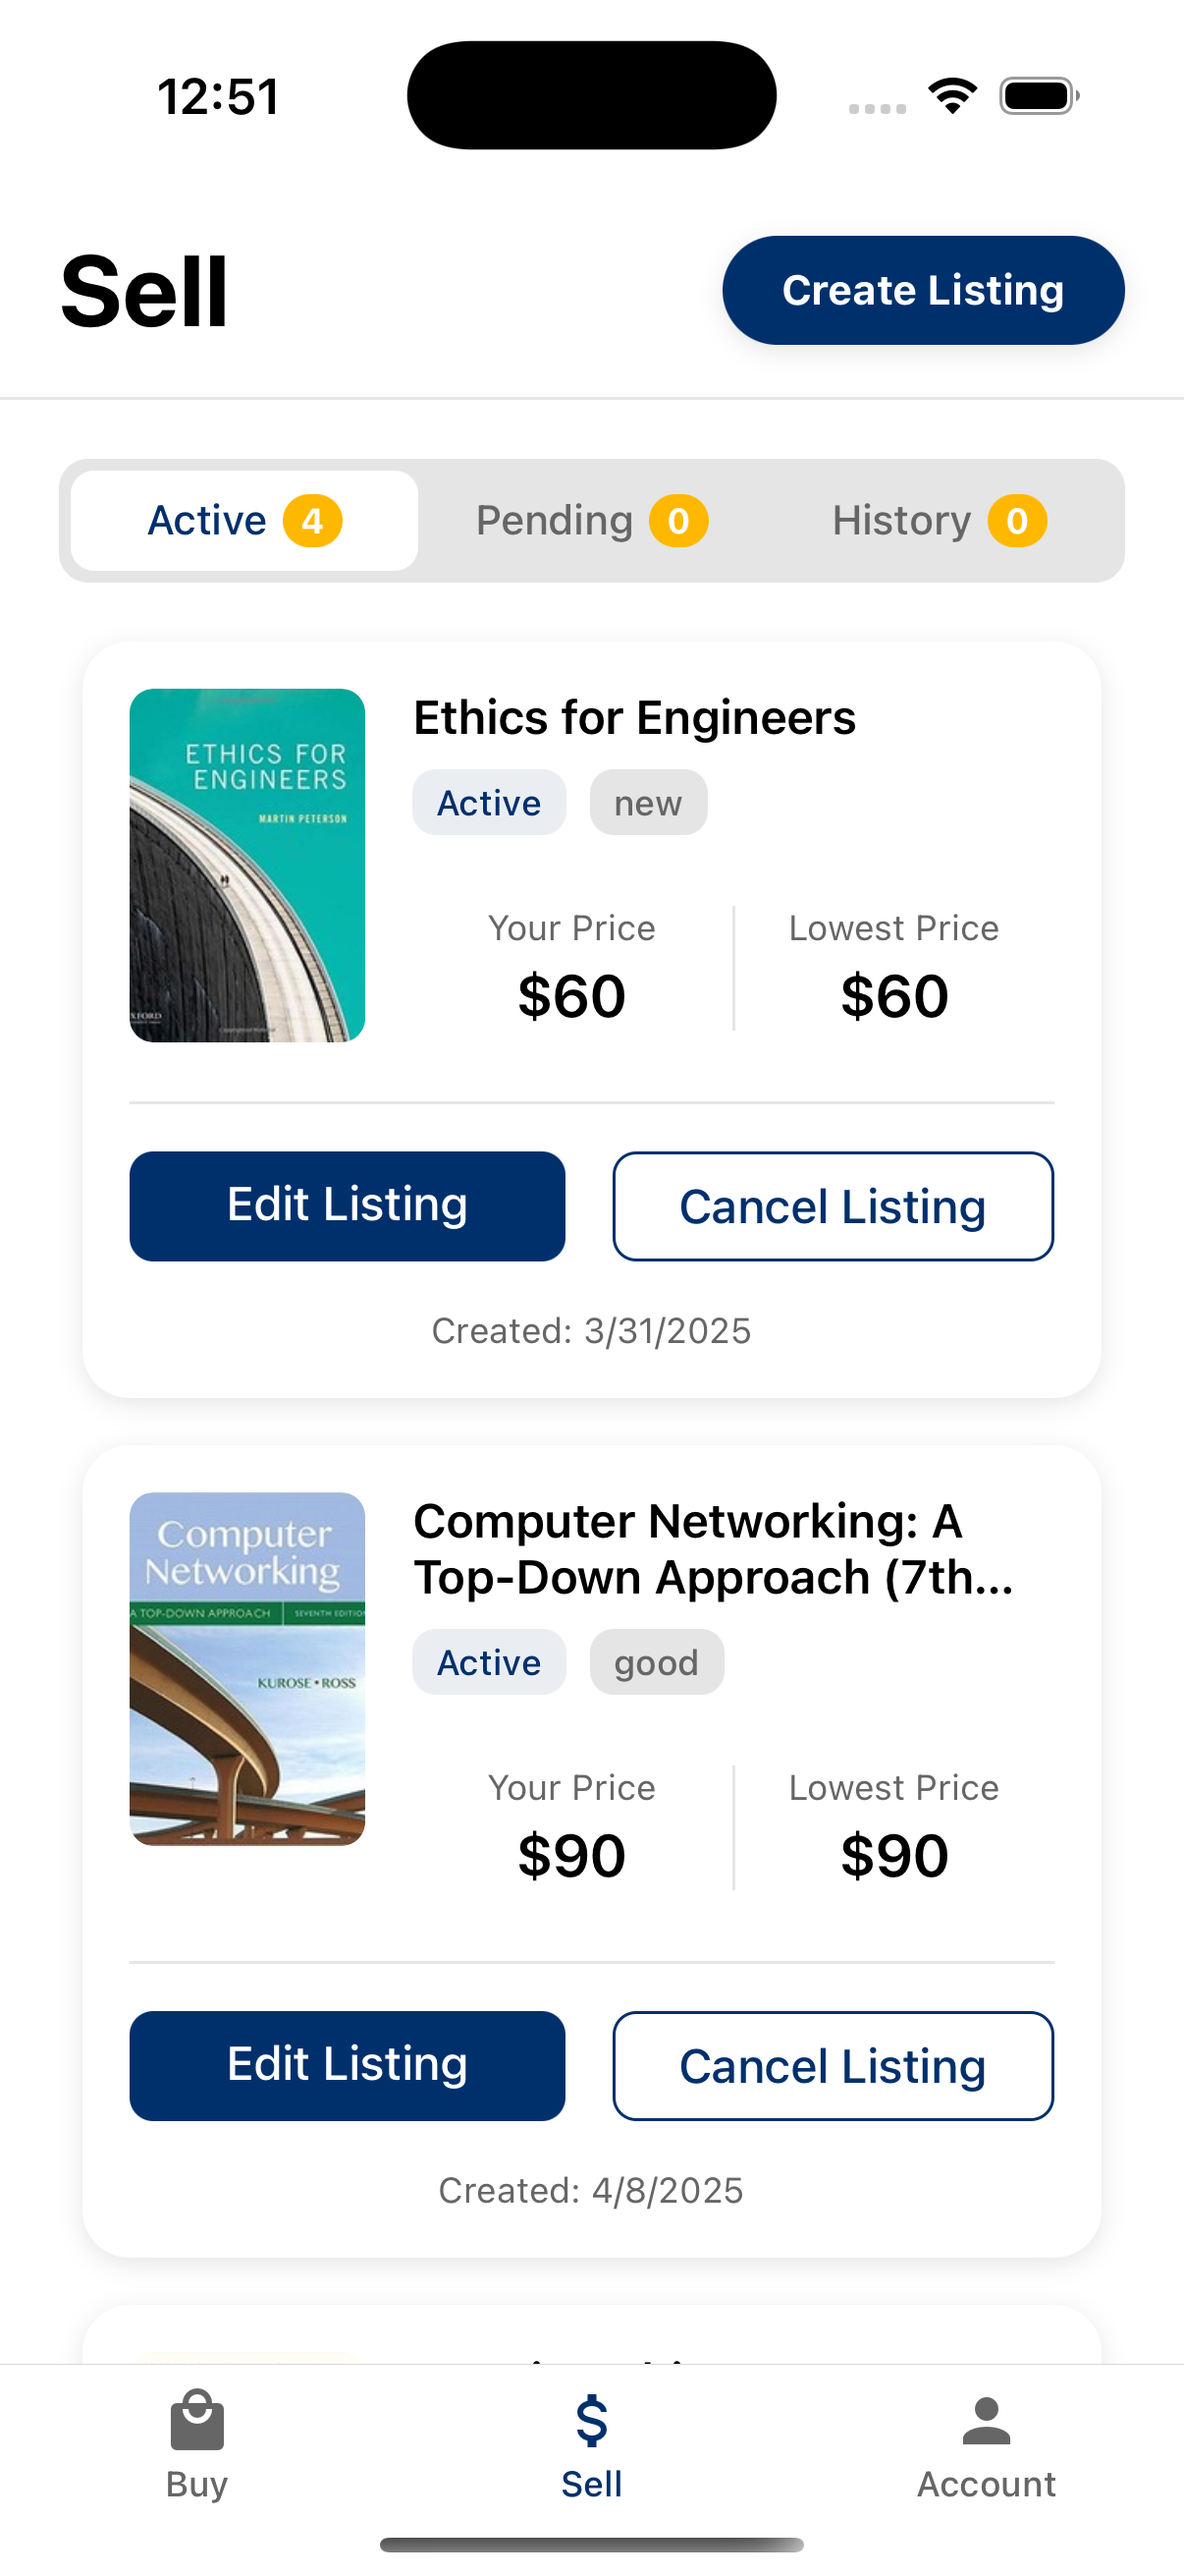
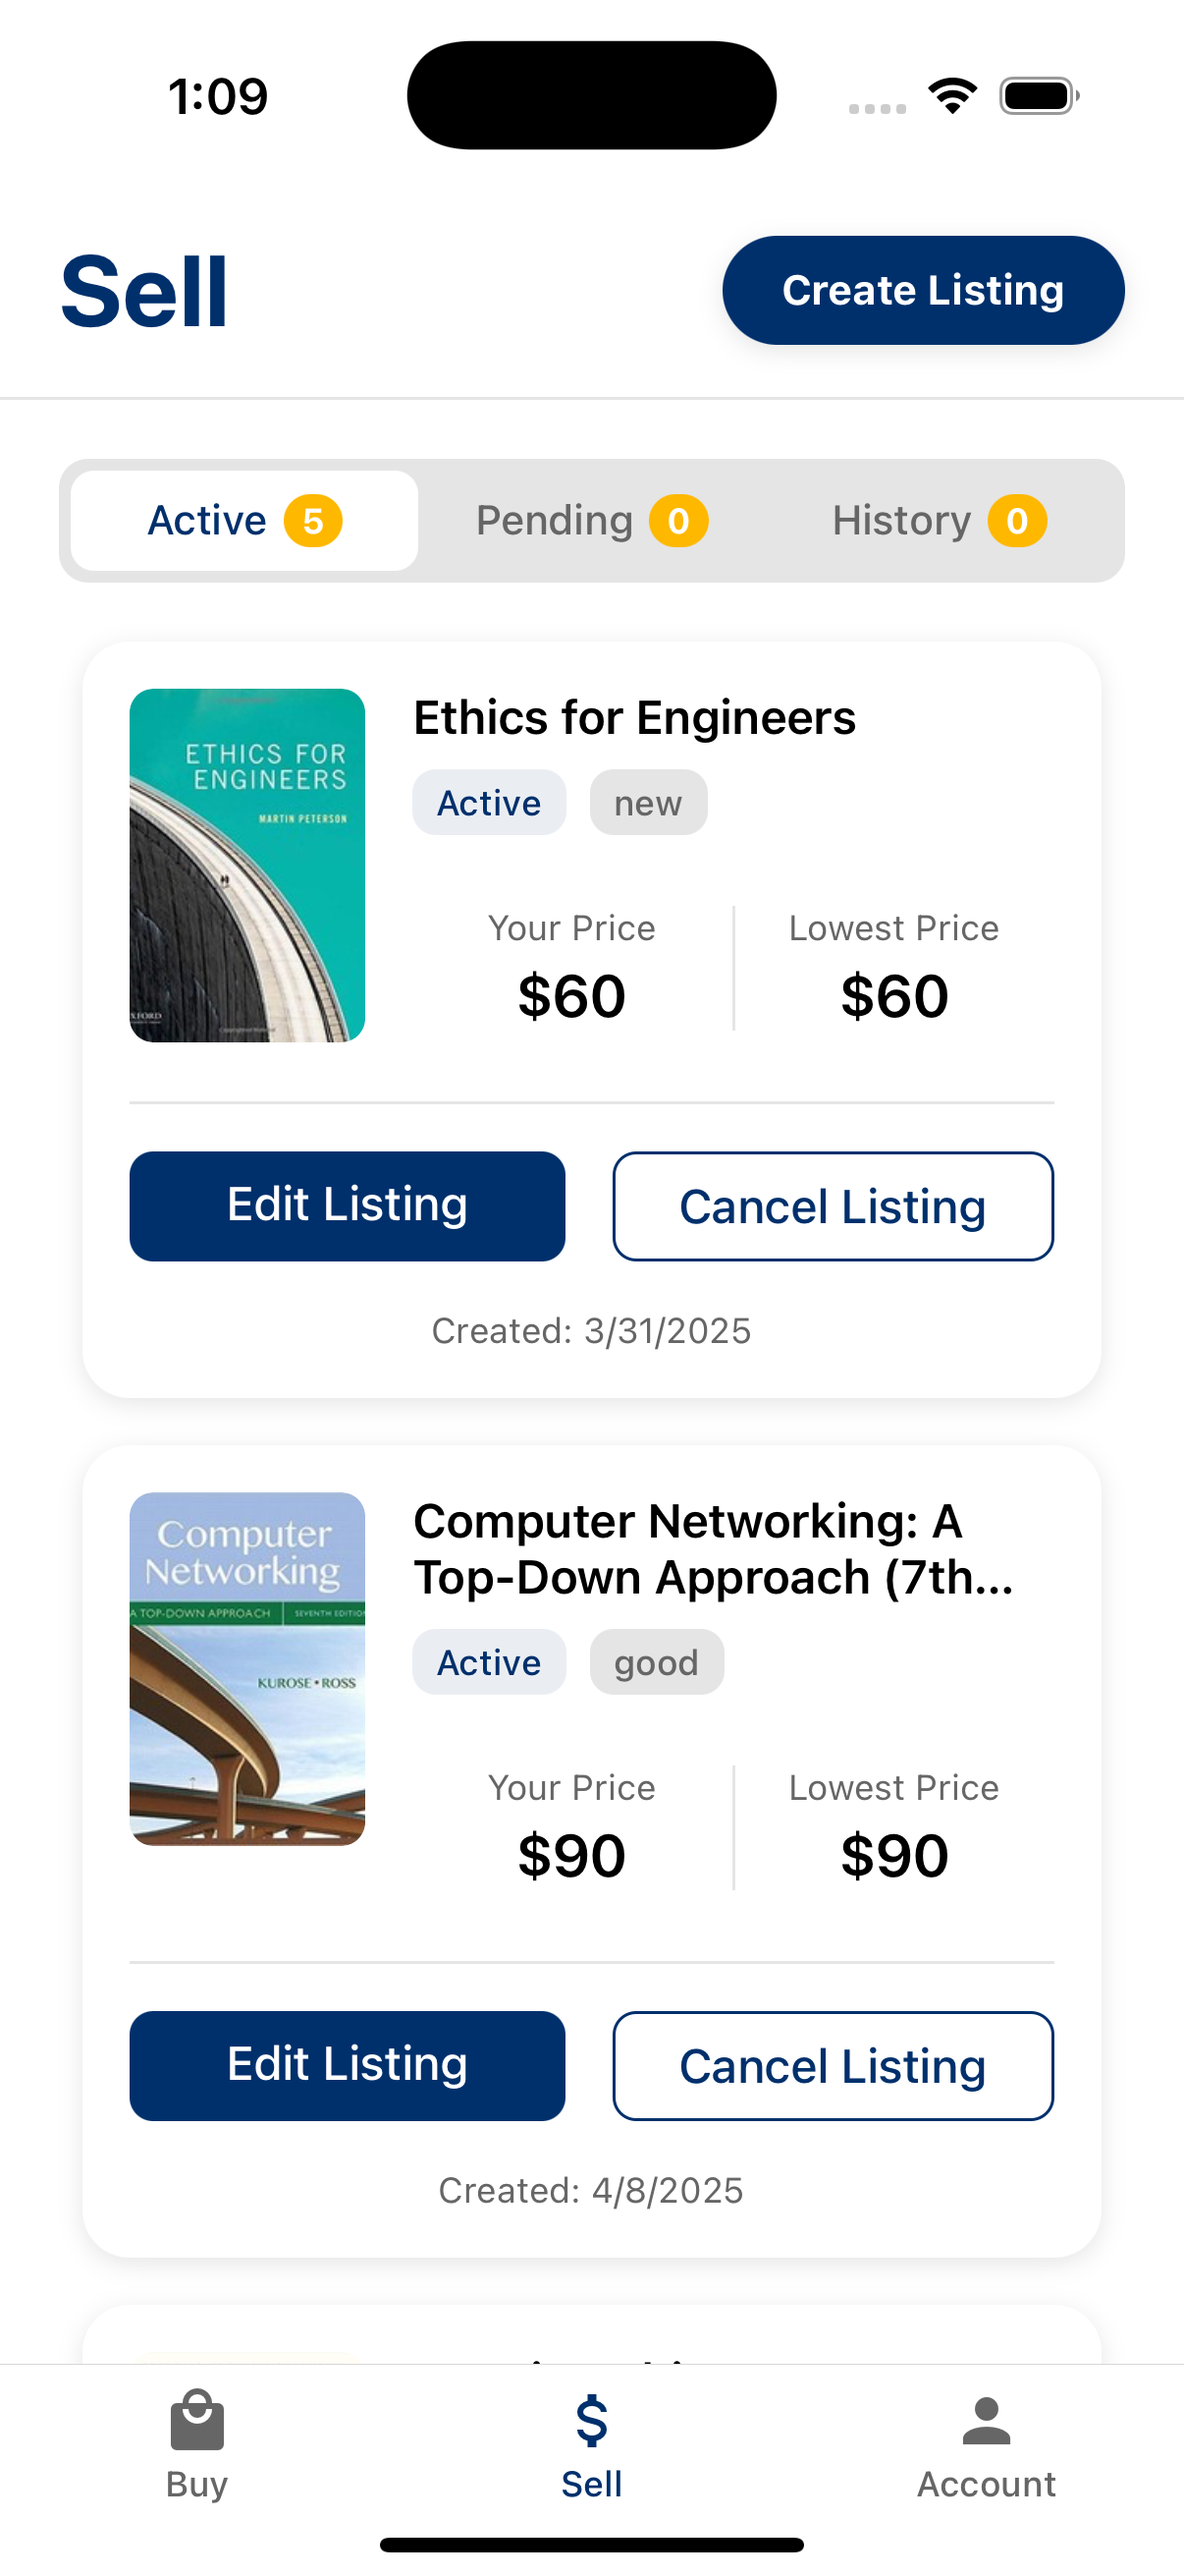
readme updates

diff --git a/app/(tabs)/sell/index.tsx b/app/(tabs)/sell/index.tsx
@@ -1,7 +1,5 @@
-// (tabs)/sell/index.tsx
 import React from "react";
 import { View, Text, SafeAreaView, TouchableOpacity } from "react-native";
-import { NavigationProp } from "@react-navigation/native";
 import ListingManager from "@/components/ListingManager";
 import { StyleSheet } from "react-native";
 import { COLORS, SIZES } from "@/constants/theme";
@@ -48,7 +46,7 @@ const styles = StyleSheet.create({
   title: {
     fontSize: SIZES.fontSize.title,
     fontWeight: "bold",
-    color: COLORS.black,
+    color: COLORS.primary,
   },
   createButton: {
     backgroundColor: COLORS.primary,

diff --git a/app/(tabs)/account/index.tsx b/app/(tabs)/account/index.tsx
@@ -397,8 +397,7 @@ const styles = StyleSheet.create({
   },
   header: {
     paddingHorizontal: SIZES.padding.screen,
-    paddingTop: SIZES.padding.small,
-    paddingBottom: SIZES.spacing.vertical.medium,
+    paddingVertical: 16,
   },
   title: {
     fontSize: SIZES.fontSize.title,

diff --git a/README.md b/README.md
@@ -4,9 +4,10 @@ BookSwap is a book marketplace app designed specifically for UCSB students to bu
 
 ## Screenshots
 
-| Buy | Sell | Account |
-|------|--------------|---------------------|
-| ![Buy Screen](./assets/screenshots/buy.png) | ![Sell](./assets/screenshots/sell.png) | ![Listing Page](./assets/screenshots/bookListing.png) |
+| Buy | Listing Page | Sell |
+|-----|-----|-----|
+| ![Buy Screen](./assets/screenshots/buy.png) | ![Listing Page](./assets/screenshots/bookListing.png) | ![Sell](./assets/screenshots/sell.png) |
+
 
 ## Setup
 
@@ -56,5 +57,7 @@ In the output, you'll find options to open the app in a
 4. Fix page animation after log in/out
 5. Fix selling instructions
 6. Redo account submenus
-7. Remove books with no listings (if necessary)
-8. Limit pending + active listings to 10 (if necessary)
+7. Unify styling 
+8. going back from book listing after coming from sell page takes you to buy page
+9. Remove books with no listings (if necessary)
+10. Limit pending + active listings to 10 (if necessary)
